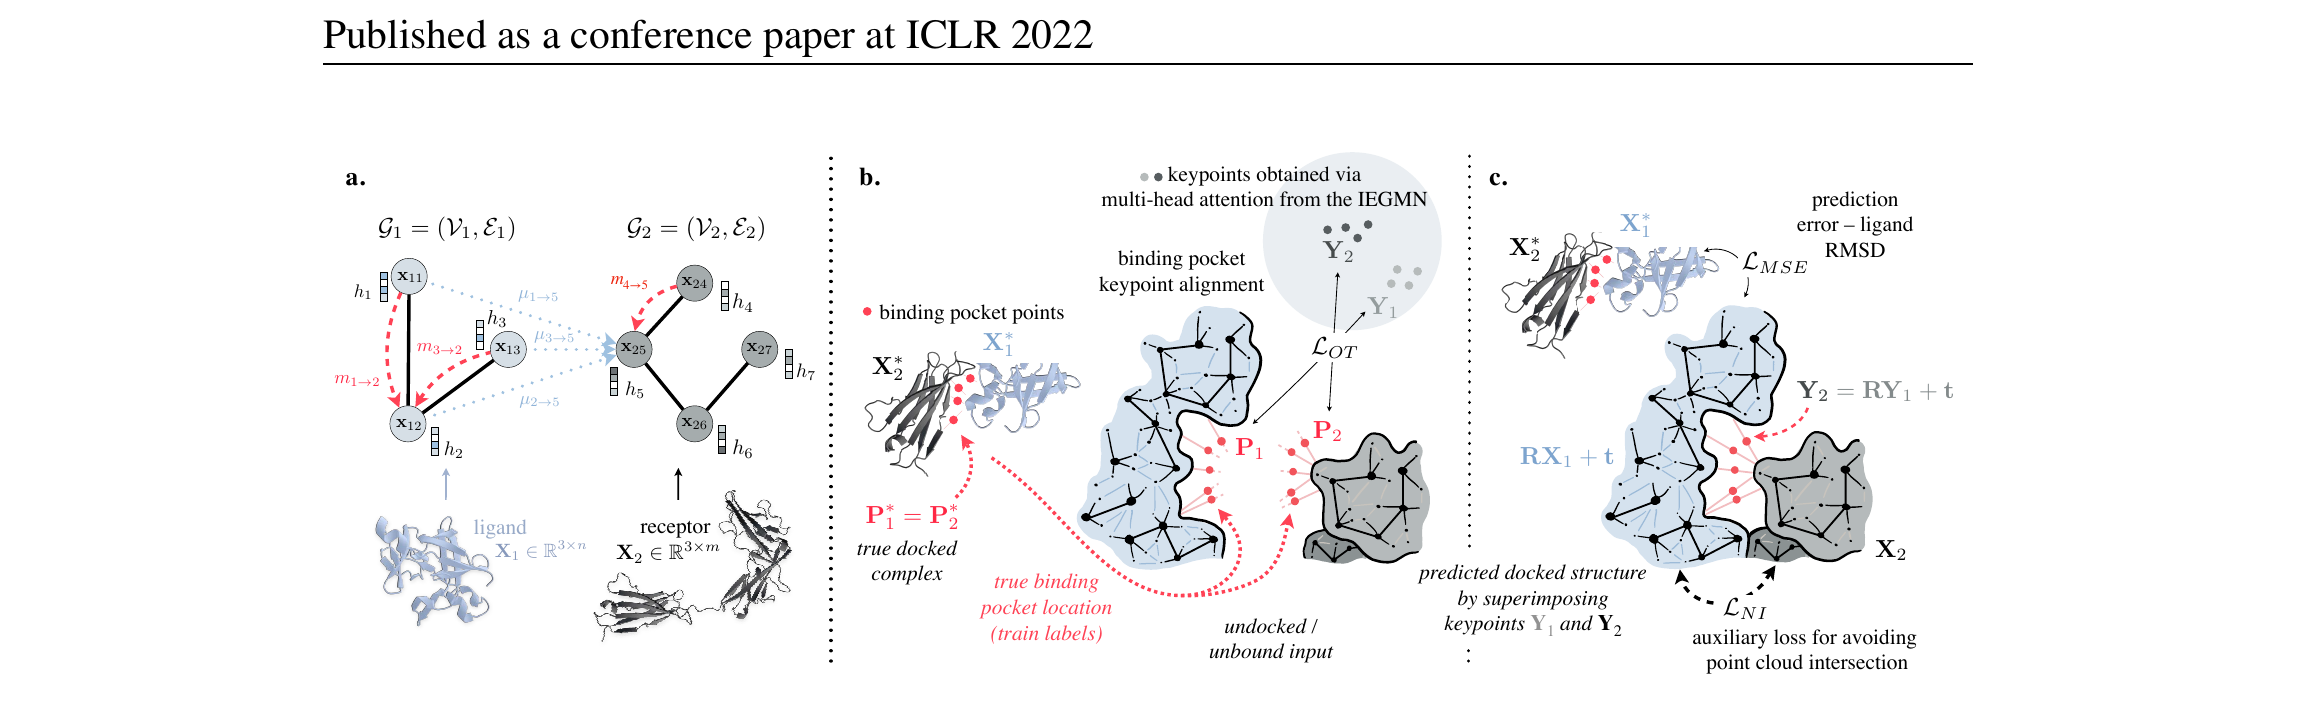
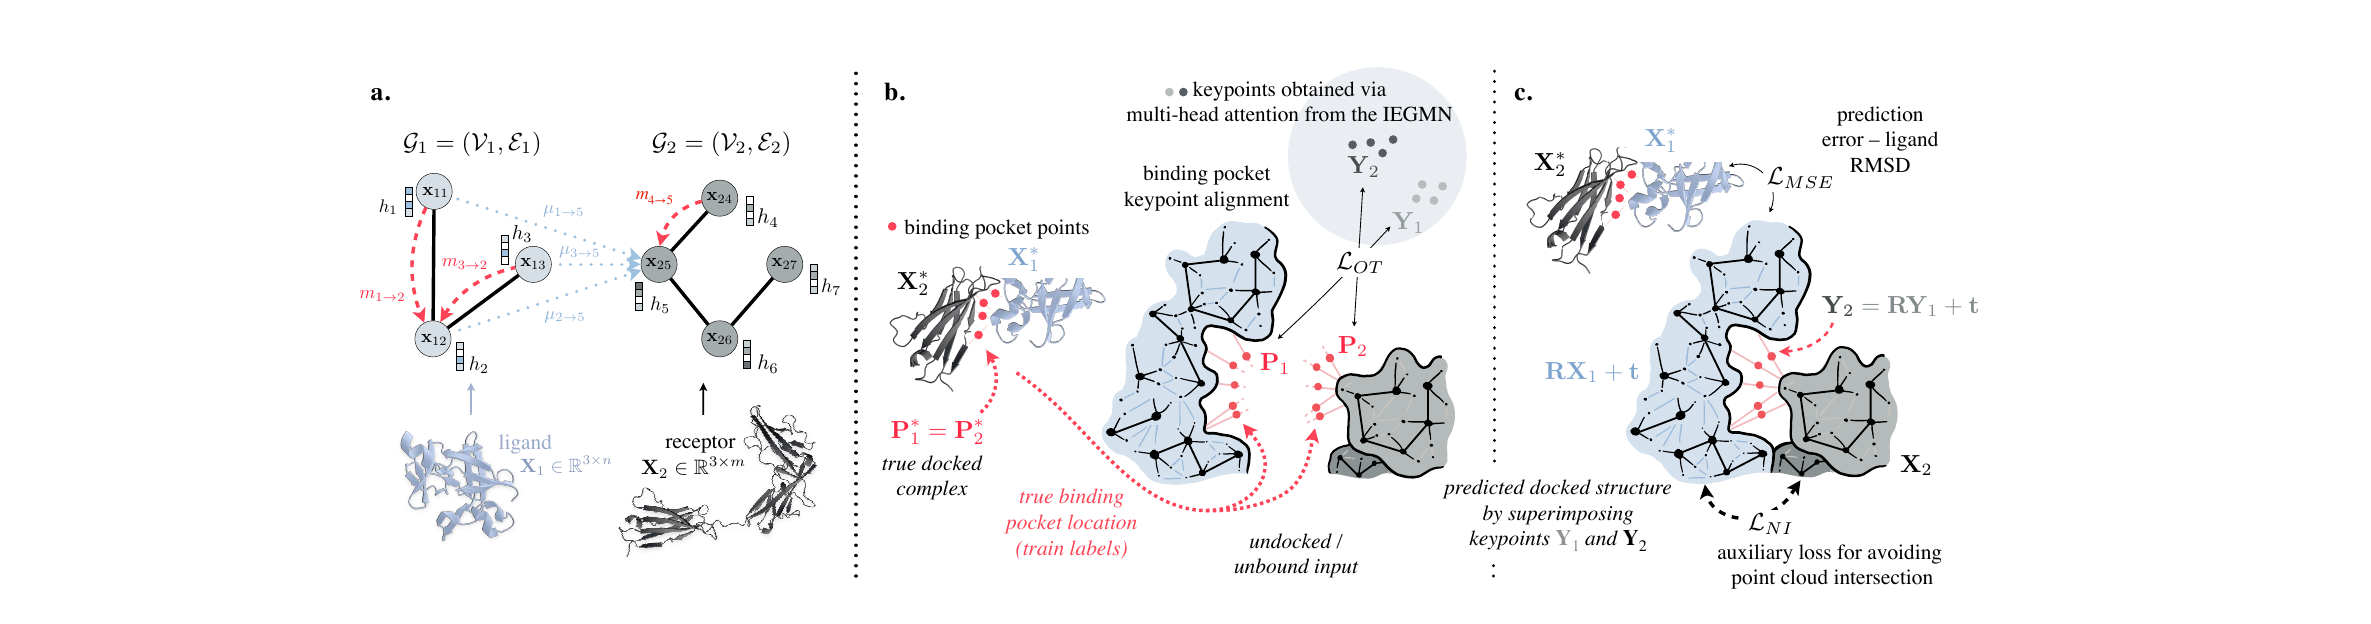
Re-crop nvidia-litl figure to the three-panel layout
Tighter crop excludes the page header and figure caption text so panels
a, b, c sit on their own (graph processing -> binding-pocket keypoint
alignment -> predicted docked structure). Cache-buster bumped to ?v=5.

diff --git a/projects/nvidia-litl.html b/projects/nvidia-litl.html
@@ -108,10 +108,10 @@
           </li>
         </ul>
         <figure class="proj-figure">
-          <img src="../assets/figures/nvidia-litl.png?v=4" alt="Key figure for nvidia-litl"
+          <img src="../assets/figures/nvidia-litl.png?v=5" alt="Key figure for nvidia-litl"
             onerror="this.style.display='none'; this.nextElementSibling.style.display='flex';">
           <div class="fig-placeholder" style="display:none;">
-            Drop the key figure at <code>assets/figures/nvidia-litl.png?v=4</code>
+            Drop the key figure at <code>assets/figures/nvidia-litl.png?v=5</code>
           </div>
           <figcaption>SE(3)-equivariant rigid-body protein-protein docking pipeline: independent graph processing of receptor and ligand, multi-head attention over binding-pocket keypoints, and Kabsch-aligned rigid-transform readout giving a single-shot complex with no candidate-pose sampling or templates.</figcaption>
         </figure>
